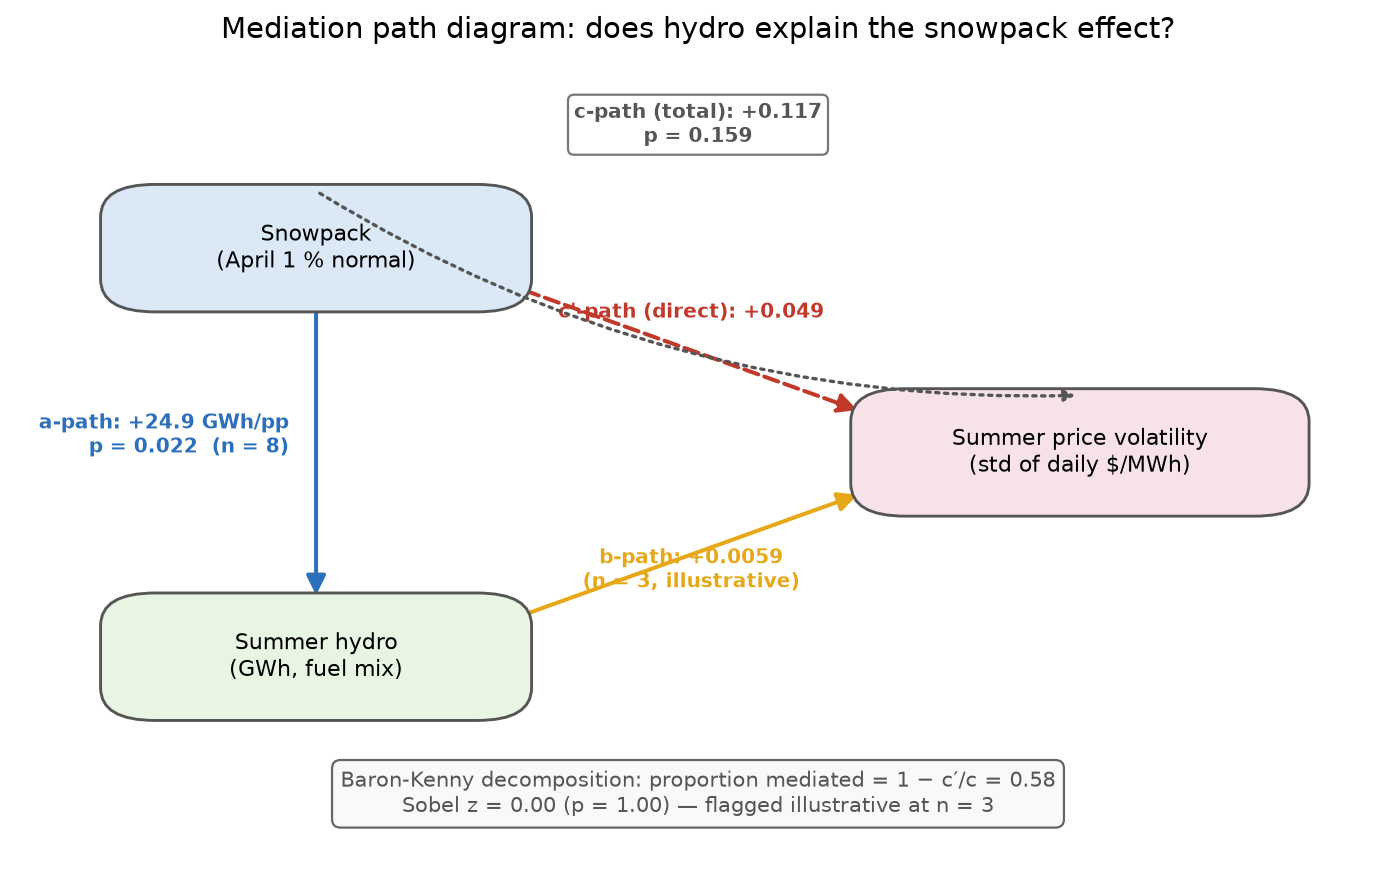
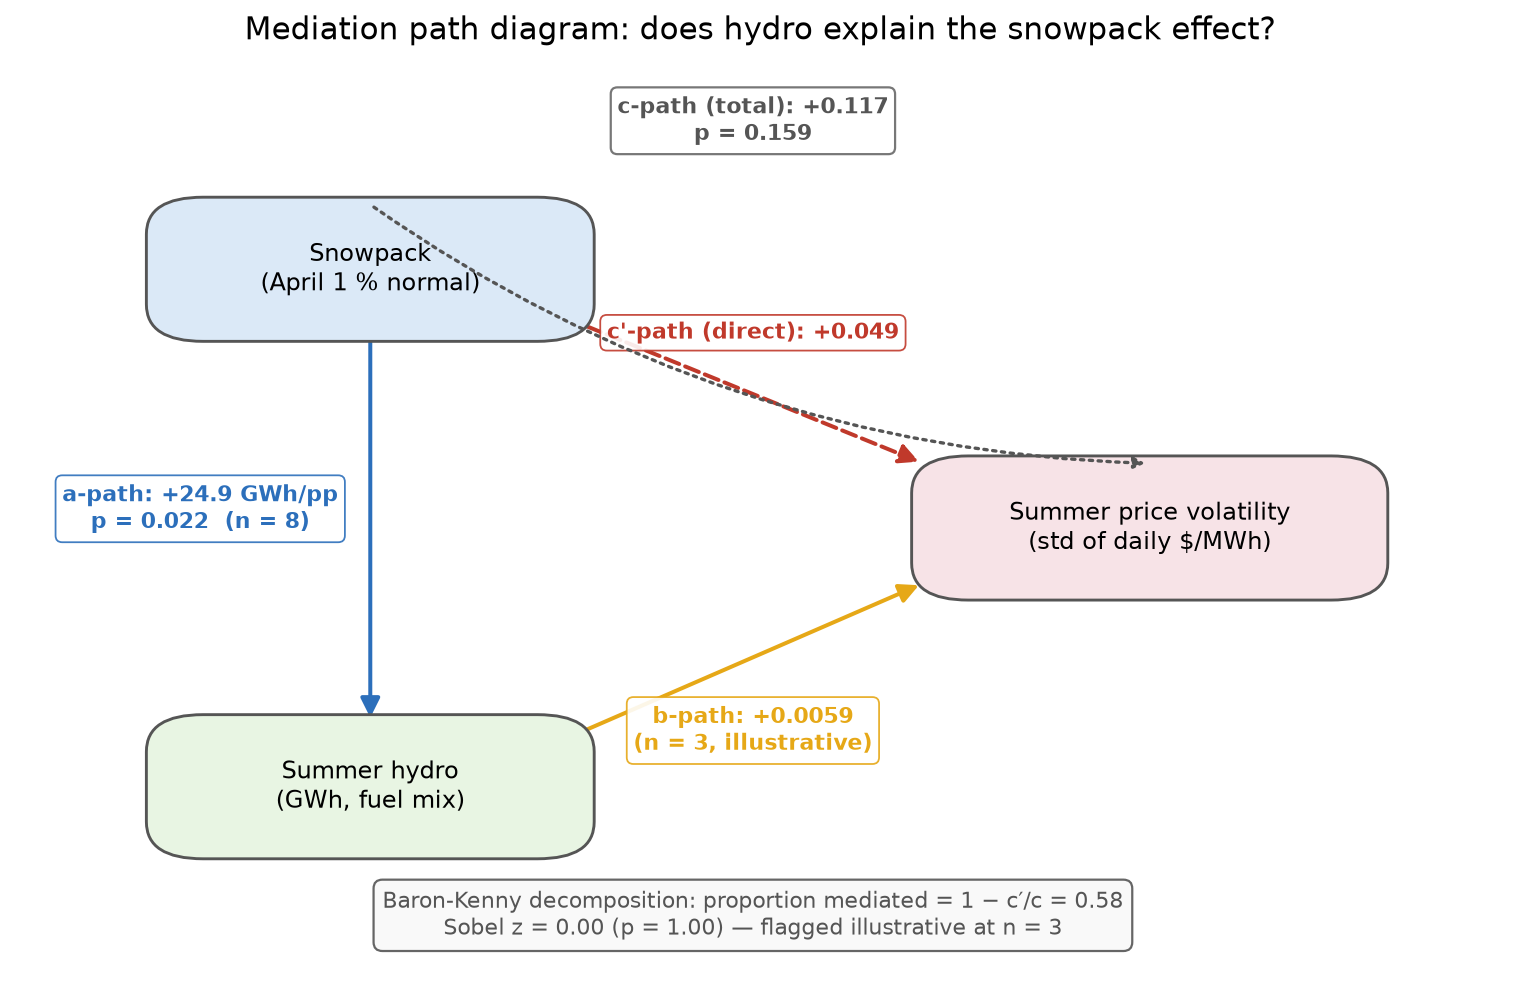
Fix hydro scatter and mediation diagram label overlap
- hydro_vs_snowpack: Custom per-year label offsets with bbox backgrounds
  to prevent overlap between CAISO and EIA labels
- mediation_diagram: Increased spacing, offset labels away from arrows,
  added bbox backgrounds for all path labels

Changed region(s): [[0.0308, 0.1847, 0.9549, 0.9544], [0.154, 0.0, 0.8317, 0.1847], [0.6468, 0.4926, 0.8625, 0.5542]]

diff --git a/scripts/make_figures.py b/scripts/make_figures.py
@@ -164,42 +164,55 @@ def snowpack_timeseries(p: pd.DataFrame):
 
 # ------------------------------------------------------------------ hydro
 def hydro_vs_snowpack(p: pd.DataFrame):
-    fig, ax = plt.subplots(figsize=(10, 5.5))
-    for col, color, mk, lbl in [("hydro_gwh", BLUE, "o",
-                                 "CAISO fuel mix (Large+Small hydro)"),
+    fig, ax = plt.subplots(figsize=(11, 6))
+
+    # Custom offsets for each year to avoid label overlap
+    # Format: year: (offset_x, offset_y) for CAISO labels
+    caiso_offsets = {
+        2018: (8, 6),
+        2019: (8, -14),
+        2020: (8, 6),
+        2021: (8, -14),
+        2022: (-20, 6),
+        2023: (8, 6),
+        2024: (8, 6),
+        2025: (8, -14),
+    }
+    eia_offsets = {
+        2019: (8, 6),
+        2021: (8, 6),
+        2022: (8, -14),
+        2023: (8, -14),
+        2024: (-20, -14),
+        2025: (8, 6),
+    }
+
+    for col, color, mk, lbl, offsets in [("hydro_gwh", BLUE, "o",
+                                 "CAISO fuel mix (Large+Small hydro)", caiso_offsets),
                                 ("hydro_gwh_eia", GOLD, "s",
-                                 "EIA-930 CISO (WAT)")]:
+                                 "EIA-930 CISO (WAT)", eia_offsets)]:
         sub = p[[col, "snowpack_pct"]].dropna()
         if sub.empty:
             continue
         ax.scatter(sub["snowpack_pct"], sub[col], color=color, marker=mk,
-                   s=70, alpha=0.85, edgecolor="white", label=lbl, zorder=3)
+                   s=80, alpha=0.85, edgecolor="white", linewidth=1.5, label=lbl, zorder=3)
         X = np.column_stack([np.ones(len(sub)), sub["snowpack_pct"]])
         b = np.linalg.lstsq(X, sub[col].values, rcond=None)[0]
-        xs = np.linspace(sub["snowpack_pct"].min() - 5, sub["snowpack_pct"].max() + 5, 50)
-        ax.plot(xs, b[0] + b[1] * xs, color=color, ls="--", lw=1.4, alpha=0.7)
+        xs = np.linspace(sub["snowpack_pct"].min() - 10, sub["snowpack_pct"].max() + 10, 50)
+        ax.plot(xs, b[0] + b[1] * xs, color=color, ls="--", lw=1.6, alpha=0.7)
 
-        # Smart label placement to avoid overlap
-        sorted_idx = sub.sort_values("snowpack_pct").index
-        offsets = []
-        for i, y in enumerate(sorted_idx):
-            # Alternate above/below, shift left/right for close points
-            if i > 0 and abs(sub.loc[y, "snowpack_pct"] - sub.loc[sorted_idx[i-1], "snowpack_pct"]) < 15:
-                offsets.append((6, -10))
-            else:
-                offsets.append((5, 7))
-
-        for i, y in enumerate(sub.index):
-            ox, oy = offsets[i] if i < len(offsets) else (5, 7)
+        for y in sub.index:
+            ox, oy = offsets.get(int(y), (8, 6))
             ax.annotate(str(int(y)), (sub.loc[y, "snowpack_pct"], sub.loc[y, col]),
-                        textcoords="offset points", xytext=(ox, oy), fontsize=8, color=GRAY,
-                        bbox=dict(boxstyle="round,pad=0.2", facecolor="white", alpha=0.7, edgecolor="none"))
+                        textcoords="offset points", xytext=(ox, oy), fontsize=9, color=GRAY,
+                        fontweight="bold",
+                        bbox=dict(boxstyle="round,pad=0.2", facecolor="white", alpha=0.8, edgecolor="none"))
 
-    ax.set_xlabel("April 1 snowpack (% of normal)", fontsize=11)
-    ax.set_ylabel("Summer hydro generation (GWh, Jun-Sep)", fontsize=11)
+    ax.set_xlabel("April 1 snowpack (% of normal)", fontsize=12)
+    ax.set_ylabel("Summer hydro generation (GWh, Jun-Sep)", fontsize=12)
     ax.set_title("First stage of the causal chain: snowpack \u2192 hydro output\n"
-                 "(slope \u2248 +25 GWh per +1 pp of normal, p = 0.022, n = 8)", fontsize=12)
-    ax.legend(fontsize=9, loc="upper left")
+                 "(slope \u2248 +25 GWh per +1 pp of normal, p = 0.022, n = 8)", fontsize=13)
+    ax.legend(fontsize=10, loc="upper left")
     ax.grid(alpha=0.25)
     save(fig, "hydro_vs_snowpack.png")
 
@@ -261,70 +274,64 @@ def correlation_heatmap(p: pd.DataFrame):
 def mediation_diagram(p: pd.DataFrame):
     fs = first_stage(p, mediator="hydro_gwh")
     med = mediation_analysis(p, target="price_vol", mediator="hydro_gwh")
-    fig, ax = plt.subplots(figsize=(11, 6.5))
+    fig, ax = plt.subplots(figsize=(12, 7.5))
     ax.axis("off")
 
     def node(x, y, text, w=0.28, h=0.14, fc="#e3e7f7"):
         ax.add_patch(FancyBboxPatch((x - w / 2, y - h / 2), w, h,
                                     boxstyle="round,pad=0.008,rounding_size=0.04",
                                     fc=fc, ec=GRAY, lw=1.3, zorder=2))
-        ax.text(x, y, text, ha="center", va="center", fontsize=10, zorder=3)
+        ax.text(x, y, text, ha="center", va="center", fontsize=11, zorder=3)
 
-    def edge(x1, y1, x2, y2, label, color=GRAY, ls="-", label_pos="above"):
+    def edge(x1, y1, x2, y2, label, color=GRAY, ls="-", label_offset=(0, 0)):
         ax.add_patch(FancyArrowPatch((x1, y1), (x2, y2), arrowstyle="-|>",
                                      mutation_scale=18, lw=1.8, color=color,
                                      linestyle=ls, zorder=1))
-        mx = (x1 + x2) / 2
-        my = (y1 + y2) / 2
-        if label_pos == "above":
-            ax.text(mx, my + 0.04, label, ha="center", fontsize=9, color=color, fontweight="bold")
-        elif label_pos == "below":
-            ax.text(mx, my - 0.04, label, ha="center", fontsize=9, color=color, fontweight="bold")
-        elif label_pos == "left":
-            ax.text(mx - 0.02, my, label, ha="right", fontsize=9, color=color, fontweight="bold")
-        else:
-            ax.text(mx + 0.02, my, label, ha="left", fontsize=9, color=color, fontweight="bold")
+        mx = (x1 + x2) / 2 + label_offset[0]
+        my = (y1 + y2) / 2 + label_offset[1]
+        ax.text(mx, my, label, ha="center", fontsize=10, color=color, fontweight="bold",
+                bbox=dict(boxstyle="round,pad=0.3", facecolor="white", alpha=0.9, edgecolor=color, linewidth=0.8))
 
     # Nodes - positioned with more spacing
-    node(0.22, 0.75, "Snowpack\n(April 1 % normal)", w=0.30, h=0.14, fc="#dbe9f7")
-    node(0.22, 0.25, "Summer hydro\n(GWh, fuel mix)", w=0.30, h=0.14, fc="#e8f5e3")
-    node(0.78, 0.50, "Summer price volatility\n(std of daily $/MWh)", w=0.32, h=0.14, fc="#f7e3e7")
+    node(0.25, 0.78, "Snowpack\n(April 1 % normal)", w=0.30, h=0.14, fc="#dbe9f7")
+    node(0.25, 0.22, "Summer hydro\n(GWh, fuel mix)", w=0.30, h=0.14, fc="#e8f5e3")
+    node(0.80, 0.50, "Summer price volatility\n(std of daily $/MWh)", w=0.32, h=0.14, fc="#f7e3e7")
 
     # a-path: Snowpack -> Hydro (vertical, left side)
-    edge(0.22, 0.68, 0.22, 0.32,
+    edge(0.25, 0.71, 0.25, 0.29,
          f"a-path: +{fs['slope_gwh_per_pct']:.1f} GWh/pp\np = {fs['p_value']:.3f}  (n = {fs['n']})",
-         color=BLUE, label_pos="left")
+         color=BLUE, label_offset=(-0.12, 0))
 
     # b-path: Hydro -> Price Volatility (diagonal up-right)
-    edge(0.37, 0.30, 0.62, 0.45,
+    edge(0.40, 0.28, 0.64, 0.44,
          f"b-path: +{med['b_mediator']:.4f}\n(n = 3, illustrative)",
-         color=GOLD, label_pos="below")
+         color=GOLD, label_offset=(0, -0.10))
 
     # c'-path: Snowpack -> Price Volatility direct (horizontal)
-    edge(0.37, 0.70, 0.62, 0.55,
+    edge(0.40, 0.72, 0.64, 0.57,
          f"c'-path (direct): +{med['direct_effect_cp']:.3f}",
-         color=RED, ls="--", label_pos="above")
+         color=RED, ls="--", label_offset=(0, 0.06))
 
     # c-path: total effect (curved arrow above)
-    ax.annotate("", xy=(0.78, 0.57), xytext=(0.22, 0.82),
+    ax.annotate("", xy=(0.80, 0.57), xytext=(0.25, 0.85),
                 arrowprops=dict(arrowstyle="-|>", color=GRAY, ls=":",
                                lw=1.5, connectionstyle="arc3,rad=0.15"))
-    ax.text(0.50, 0.88, f"c-path (total): +{med['total_effect_c']:.3f}\np = {med['p_total']:.3f}",
-            ha="center", fontsize=9, color=GRAY, fontweight="bold",
+    ax.text(0.52, 0.92, f"c-path (total): +{med['total_effect_c']:.3f}\np = {med['p_total']:.3f}",
+            ha="center", fontsize=10, color=GRAY, fontweight="bold",
             bbox=dict(boxstyle="round,pad=0.3", facecolor="white", alpha=0.8, edgecolor=GRAY))
 
     # Baron-Kenny summary at bottom
-    ax.text(0.50, 0.06,
+    ax.text(0.52, 0.06,
             "Baron-Kenny decomposition: proportion mediated = 1 \u2212 c\u2032/c = "
             f"{med['proportion_mediated']:.2f}\n"
             "Sobel z = "
             f"{med['sobel_z']:.2f} (p = {med['sobel_p']:.2f}) \u2014 flagged illustrative at n = 3",
-            ha="center", fontsize=9.5, color=GRAY,
+            ha="center", fontsize=10, color=GRAY,
             bbox=dict(boxstyle="round,pad=0.4", facecolor="#f9f9f9", alpha=0.9, edgecolor=GRAY))
 
-    ax.set_xlim(0, 1.0); ax.set_ylim(0, 0.98)
+    ax.set_xlim(0, 1.05); ax.set_ylim(0, 1.0)
     ax.set_title("Mediation path diagram: does hydro explain the snowpack effect?",
-                 fontsize=13, pad=10)
+                 fontsize=14, pad=12)
     save(fig, "mediation_diagram.png")
 
 
